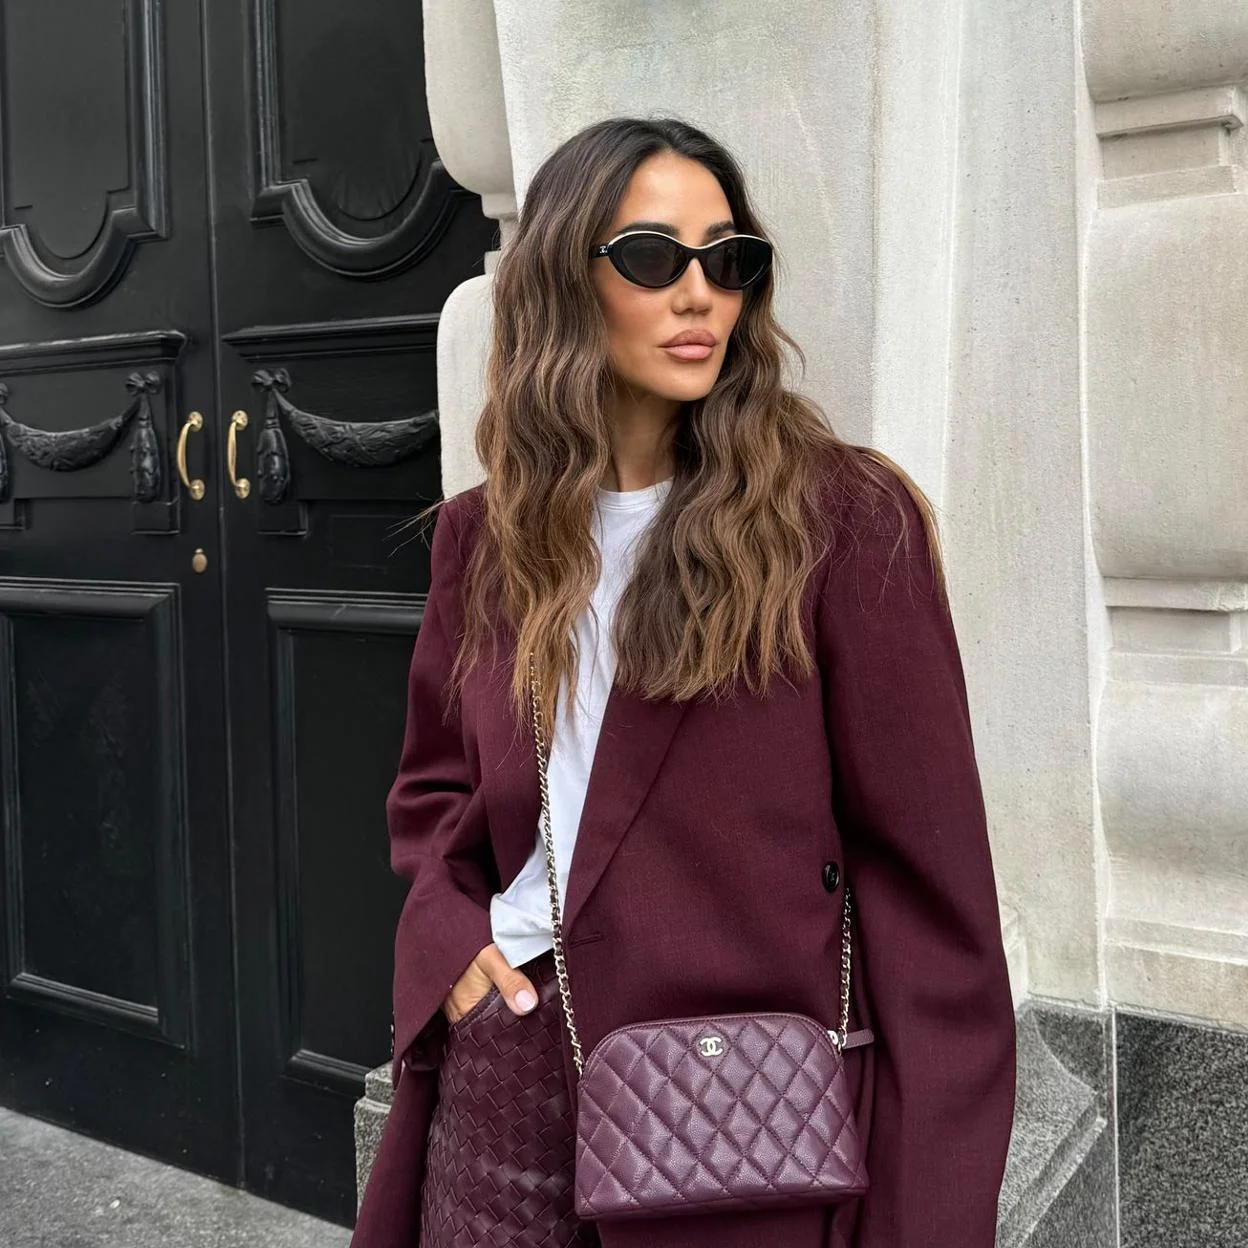
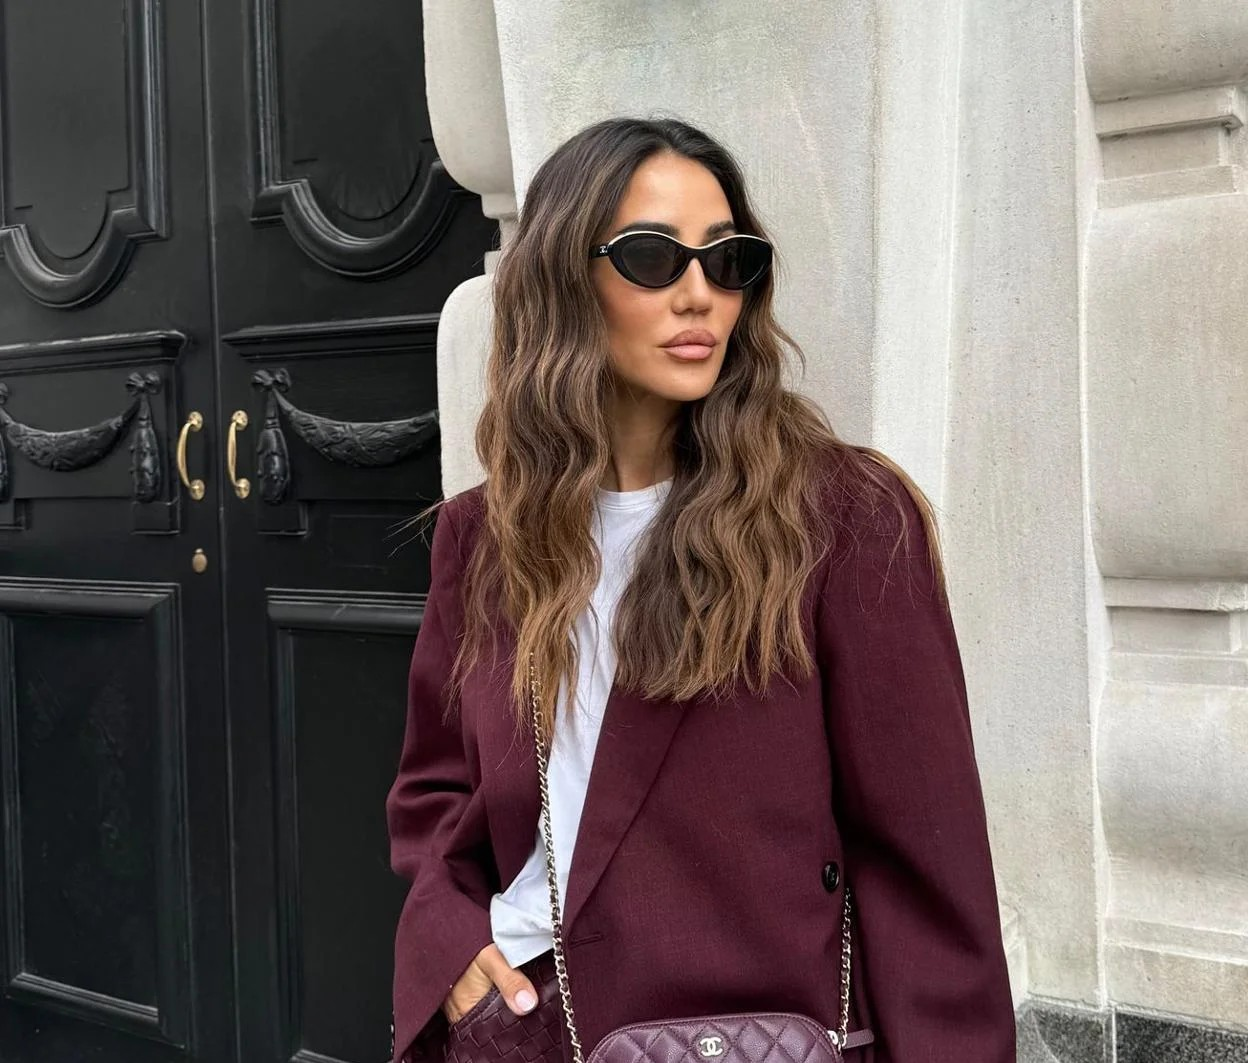
si

diff --git a/templates/crear_usuario.html b/templates/crear_usuario.html
@@ -5,40 +5,48 @@
     <meta charset="UTF-8">
     <meta name="viewport" content="width=device-width, initial-scale=1.0">
     <title>Registrar Usuario | Panel Admin</title>
+    <link rel="stylesheet" href="{{ url_for('static', filename='css/admin.css') }}">
     <link href="https://fonts.googleapis.com/css2?family=Playfair+Display:wght@700&family=Montserrat:wght@400;500;600;700&display=swap" rel="stylesheet">
-    <link rel="stylesheet" href="{{ url_for('static', filename='css/estilos.css') }}">
 </head>
-<body class="auth-body">
+<body>
 
-    
-    <div class="auth-container">
-        
-        <h2>Registrar Nuevo Usuario</h2>
+    <header class="admin-header">
+        <a href="{{ url_for('admin_panel') }}" class="admin-logo">JOEL PIEL <span style="font-size: 12px; font-weight: 300;">ADMIN</span></a>
+        <nav class="admin-nav">
+            <a href="{{ url_for('admin_usuarios') }}">Volver a Usuarios</a>
+            <a href="{{ url_for('logout') }}" class="logout-btn">Salir</a>
+        </nav>
+    </header>
 
-        
-        <form method="POST">
+    <div class="admin-container">
+        <h1 class="admin-title">Registrar Nuevo Usuario</h1>
+
+        {% if mensaje %}
+        <div style="background: {% if 'Error' in mensaje or 'registrado' in mensaje or 'obligatorios' in mensaje %}#f8d7da{% else %}#d4edda{% endif %}; color: {% if 'Error' in mensaje or 'registrado' in mensaje or 'obligatorios' in mensaje %}#721c24{% else %}#155724{% endif %}; padding: 12px; border-radius: 6px; margin-bottom: 20px; font-size: 14px;">
+            {{ mensaje }}
+        </div>
+        {% endif %}
+
+        <form method="POST" style="max-width: 450px;">
             <input type="hidden" name="csrf_token" value="{{ csrf_token() }}">
-            
-            <input type="text" name="nombre" class="auth-input" placeholder="Nombre completo" required>
-            
-            <input type="email" name="email" class="auth-input" placeholder="Correo electrónico" required>
-            
-            <input type="password" name="password" class="auth-input" placeholder="Contraseña de acceso" required>
-            
-            <select name="rol" class="auth-input" style="background: #fff; cursor: pointer; height: 48px;">
+
+            <label style="display: block; font-weight: 600; margin-bottom: 5px; font-size: 13px;">Nombre completo</label>
+            <input type="text" name="nombre" style="width: 100%; padding: 10px; margin-bottom: 15px; border: 1px solid #ddd; border-radius: 4px; font-family: inherit;" required>
+
+            <label style="display: block; font-weight: 600; margin-bottom: 5px; font-size: 13px;">Correo electrónico</label>
+            <input type="email" name="email" style="width: 100%; padding: 10px; margin-bottom: 15px; border: 1px solid #ddd; border-radius: 4px; font-family: inherit;" required>
+
+            <label style="display: block; font-weight: 600; margin-bottom: 5px; font-size: 13px;">Contraseña de acceso</label>
+            <input type="password" name="password" style="width: 100%; padding: 10px; margin-bottom: 15px; border: 1px solid #ddd; border-radius: 4px; font-family: inherit;" required>
+
+            <label style="display: block; font-weight: 600; margin-bottom: 5px; font-size: 13px;">Rol</label>
+            <select name="rol" style="width: 100%; padding: 10px; margin-bottom: 20px; border: 1px solid #ddd; border-radius: 4px; font-family: inherit; background: #fff; cursor: pointer;">
                 <option value="cliente">Cliente</option>
                 <option value="admin">Administrador</option>
             </select>
 
-            
-            <button type="submit" class="btn-auth">Crear Usuario y Enviar Bienvenida</button>
+            <button type="submit" style="background: #000; color: #fff; border: none; padding: 12px 24px; border-radius: 4px; font-weight: bold; cursor: pointer; font-family: inherit;">Crear Usuario</button>
         </form>
-
-        
-        <p class="auth-switch" style="margin-top: 25px;">
-            <a href="{{ url_for('admin_usuarios') }}">← Volver a la Lista de Usuarios</a>
-        </p>
-
     </div>
 
 </body>

diff --git a/static/css/estilos.css b/static/css/estilos.css
@@ -341,7 +341,7 @@ body {
 .coleccion-overlay {
     position: absolute;
     inset: 0;
-    background: rgba(0,0,0,0.2);
+    background: rgba(0,0,0,0.45);
     display: flex;
     flex-direction: column;
     justify-content: center;
@@ -350,7 +350,7 @@ body {
 }
 
 .coleccion-box:hover .coleccion-overlay {
-    background: rgba(0,0,0,0.4);
+    background: rgba(0,0,0,0.65);
 }
 
 .coleccion-overlay h3 {
@@ -359,6 +359,7 @@ body {
     letter-spacing: 2px;
     text-transform: uppercase;
     margin-bottom: 15px;
+    color: #fff;
 }
 
 .coleccion-overlay .btn-text {
@@ -368,6 +369,7 @@ body {
     text-transform: uppercase;
     border-bottom: 2px solid #fff;
     padding-bottom: 5px;
+    color: #fff;
 }
 
 /* --- VITRINA DE PRODUCTOS --- */

diff --git a/templates/usuarios_admin.html b/templates/usuarios_admin.html
@@ -22,7 +22,7 @@
         
         <div style="display: flex; justify-content: space-between; align-items: center; margin-bottom: 20px;">
             <h1 class="admin-title">Personas Registradas</h1>
-            <a href="{{ url_for('registro') }}" style="background: #000; color: #fff; padding: 10px 20px; text-decoration: none; font-size: 12px; font-weight: bold;">+ NUEVO USUARIO</a>
+            <a href="{{ url_for('admin_crear_usuario') }}" style="background: #000; color: #fff; padding: 10px 20px; text-decoration: none; font-size: 12px; font-weight: bold;">+ NUEVO USUARIO</a>
         </div>
 
         

diff --git a/routes/admin_usuarios.py b/routes/admin_usuarios.py
@@ -1,8 +1,36 @@
 from flask import render_template, request, redirect, session, url_for
+import bcrypt
 from db import conectar, obtener_cursor
+from models.usuario import registrar_usuario, obtener_usuario_por_email
+from services.email_service import enviar_bienvenida
+from extensions import mail
 
 
 def register_routes(app):
+    @app.route("/admin/usuarios/crear", methods=["GET", "POST"])
+    def admin_crear_usuario():
+        if session.get("rol") != "admin":
+            return redirect(url_for('inicio'))
+        mensaje = ""
+        if request.method == "POST":
+            nombre = request.form.get("nombre", "").strip()
+            email = request.form.get("email", "").strip()
+            password = request.form.get("password", "")
+            rol = request.form.get("rol", "cliente")
+            if not nombre or not email or not password:
+                mensaje = "Todos los campos son obligatorios."
+            elif obtener_usuario_por_email(email):
+                mensaje = "Ese correo ya está registrado."
+            else:
+                password_hash = bcrypt.hashpw(password.encode('utf-8'), bcrypt.gensalt()).decode('utf-8')
+                if registrar_usuario(nombre, email, password_hash, rol):
+                    try:
+                        enviar_bienvenida(mail, nombre, email, url_for('inicio', _external=True))
+                    except Exception as e:
+                        print(f"Error al enviar correo de bienvenida: {e}")
+                    return redirect(url_for('admin_usuarios'))
+                mensaje = "Error al crear el usuario."
+        return render_template("crear_usuario.html", mensaje=mensaje)
     @app.route("/admin/usuarios")
     def admin_usuarios():
         if session.get("rol") != "admin":